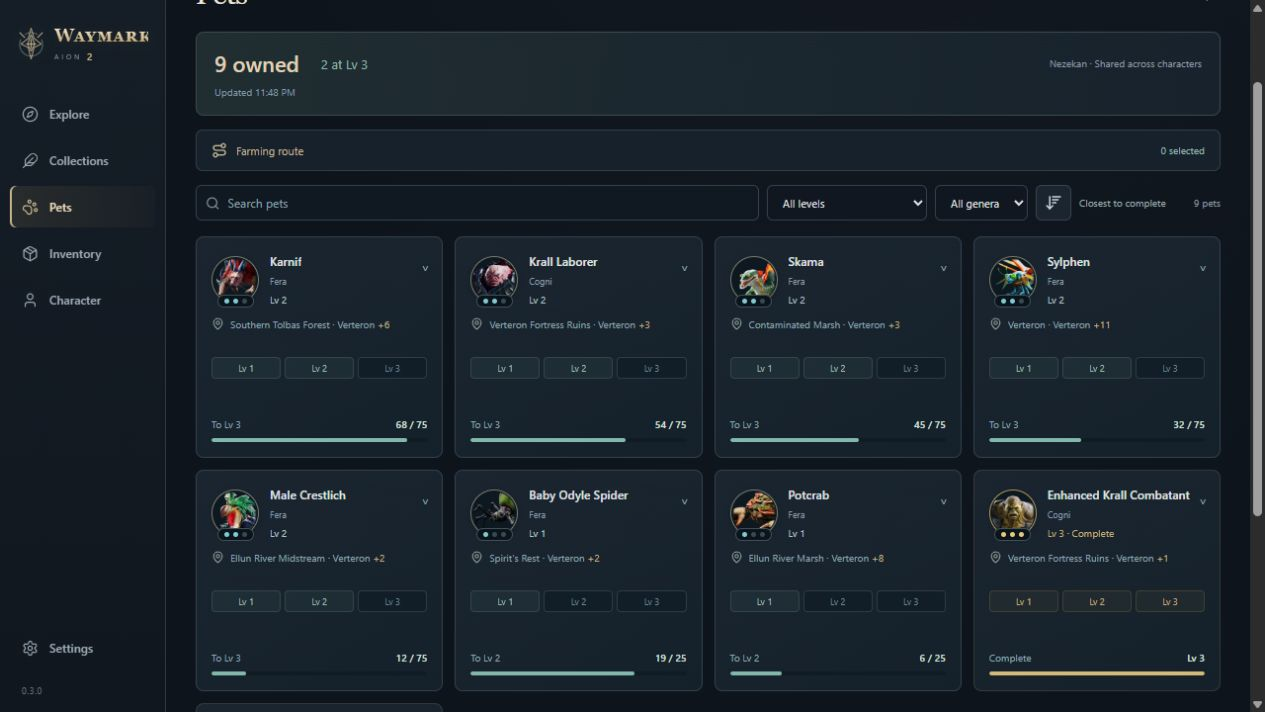
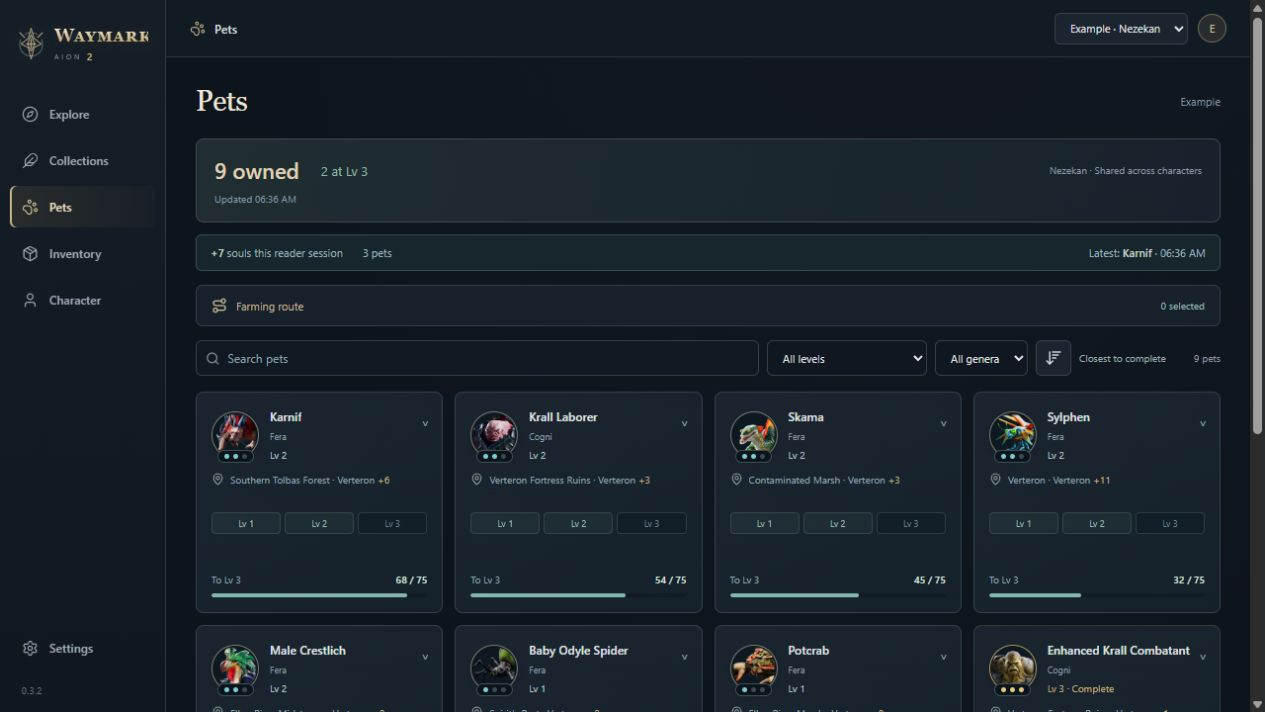
Document reader-session farming summary in 0.3.2

diff --git a/docs/GETTING_STARTED.md b/docs/GETTING_STARTED.md
@@ -1,10 +1,10 @@
 # Getting started with Waymark
 
-[Download 0.3.1](https://github.com/ErebusAres/waymark-downloads/releases/download/v0.3.1/Waymark-0.3.1-Setup.exe) · [Back to Waymark](../README.md)
+[Download 0.3.2](https://github.com/ErebusAres/waymark-downloads/releases/download/v0.3.2/Waymark-0.3.2-Setup.exe) · [Back to Waymark](../README.md)
 
 ## Install
 
-Run **Waymark-0.3.1-Setup.exe** on 64-bit Windows 10 or 11. The installer includes a WebView2 bootstrapper for systems missing that runtime; it may need an internet connection. No Python, Node.js or development tools are required.
+Run **Waymark-0.3.2-Setup.exe** on 64-bit Windows 10 or 11. The installer includes a WebView2 bootstrapper for systems missing that runtime; it may need an internet connection. No Python, Node.js or development tools are required.
 
 On first launch, select Verteron, Altgard or Abyss and choose whether to show the floating minimap. **Start exploring** applies the map selection; **Keep current map** keeps the existing map. Both actions save the minimap checkbox.
 
@@ -57,6 +57,8 @@ The Pets page shows portraits, farming references and the latest observed level 
 
 Closest to complete puts the highest unfinished tier first, then the most points within that tier. Completed level 3 pets remain at the bottom. Use the sort icon to cycle through closest, least progress, alphabetical and recent pickups. Search and filters are saved.
 
+The farming summary shows souls observed in the current reader session, the number of affected pets and the latest pickup. Expanded cards keep previous-session gains labeled separately. These totals cover observed pickups, not a full play-session history or souls earned while the reader was disconnected.
+
 A soul gain without a known baseline cannot establish a reliable total. Check the reader status if cards show unknown progress or wait for a fresh character login. Pet progress is shared between characters on the same server, not across different servers. Spawn dots are farming references; regional fallbacks are less precise and labeled as such.
 
 ## Claimed and completed objectives
@@ -85,8 +87,8 @@ Data is stored in **%LOCALAPPDATA%\AionCompanion** unless a custom data director
 | --- | --- |
 | No character or pet updates | Npcap compatibility option, one supported game client, other readers closed, then enter a character after starting Waymark |
 | Position unavailable | Correct map, visible in-game map/minimap terrain, reader diagnostics; last-known is not a fresh fix |
-| Minimap appears unexpectedly | Update to 0.3.1, turn off **Show floating minimap**, then relaunch to confirm the saved preference |
-| Teleport names are not English | Update to 0.3.1; all Verteron and Altgard kibelisk labels were replaced |
+| Minimap appears unexpectedly | Update to 0.3.2, turn off **Show floating minimap**, then relaunch to confirm the saved preference |
+| Teleport names are not English | Update to 0.3.2; all Verteron and Altgard kibelisk labels were replaced |
 | App cannot check online updates | Check the selected update source and connection; the current installer is always on the Releases page |
 
 For a report, include the app version, map, steps and relevant status text. Crop private information from screenshots. Do not attach game login details, databases or packet captures to a public issue.

diff --git a/README.md b/README.md
@@ -4,7 +4,7 @@
 
 Waymark is a Windows app for AION 2 Global Steam. Explore the world map, build farming routes, and follow your pet collection in one place. A floating minimap keeps nearby objectives visible while you play.
 
-[**Download Waymark 0.3.1 for Windows**](https://github.com/ErebusAres/waymark-downloads/releases/download/v0.3.1/Waymark-0.3.1-Setup.exe) · [Getting started](docs/GETTING_STARTED.md) · [Release notes](https://github.com/ErebusAres/waymark-downloads/releases/tag/v0.3.1) · [All downloads](https://github.com/ErebusAres/waymark-downloads/releases)
+[**Download Waymark 0.3.2 for Windows**](https://github.com/ErebusAres/waymark-downloads/releases/download/v0.3.2/Waymark-0.3.2-Setup.exe) · [Getting started](docs/GETTING_STARTED.md) · [Release notes](https://github.com/ErebusAres/waymark-downloads/releases/tag/v0.3.2) · [All downloads](https://github.com/ErebusAres/waymark-downloads/releases)
 
 Windows 10/11, 64-bit. Public preview. No GitHub account needed to download.
 
@@ -26,7 +26,7 @@ Supported live soul pickups update progress without relogging, and reaching a ti
 
 ![Waymark pet page with compact cards and soul progress bars](docs/images/pets.jpg)
 
-*Screenshots show the 0.3.0 interface with an example profile and illustrative progress.*
+*Screenshots use an example profile and illustrative progress.*
 
 ## A cleaner desktop workspace
 
@@ -36,7 +36,7 @@ The 0.3.0 refresh gives maps and pet cards more room, keeps controls consistent,
 
 ## Start playing
 
-1. Download and run **Waymark-0.3.1-Setup.exe**. Setup includes the WebView2 bootstrapper if the Windows web runtime is missing.
+1. Download and run **Waymark-0.3.2-Setup.exe**. Setup includes the WebView2 bootstrapper if the Windows web runtime is missing.
 2. Choose a starting map and whether to open the floating minimap. You can change both later.
 3. For automatic character and pet reads, install [Npcap from its official site](https://npcap.com/#download) with **WinPcap API-compatible Mode** enabled. Map planning works without it.
 4. Start Waymark before entering your character. If you opened Waymark while already in game, return to character selection and enter once so it can identify the session.
